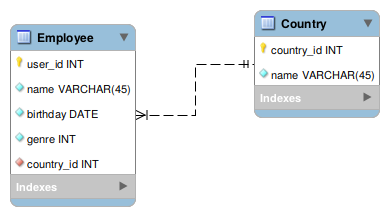
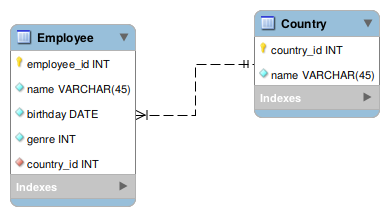
add models

Changed region(s): [[0.0617, 0.2778, 0.2776, 0.3333]]

diff --git a/src/app/models/employee.model.ts b/src/app/models/employee.model.ts
@@ -1,4 +1,8 @@
 export class EmployeeModel {
-    
-    public CodigoBoletim: string;    
+
+    public employee_id: number;
+    public name: string;
+    public birthdate: Date;
+    public genre: number;
+    public country_id: number;
 }

diff --git a/src/app/models/country.model.ts b/src/app/models/country.model.ts
@@ -1,0 +1,5 @@
+export class CountryModel {
+
+    public country_id: number;
+    public name: string;
+}
